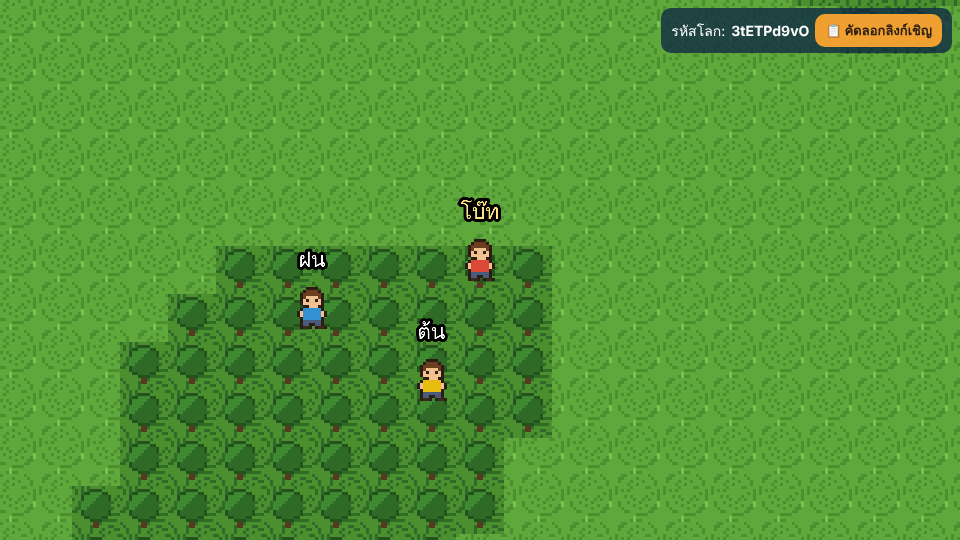
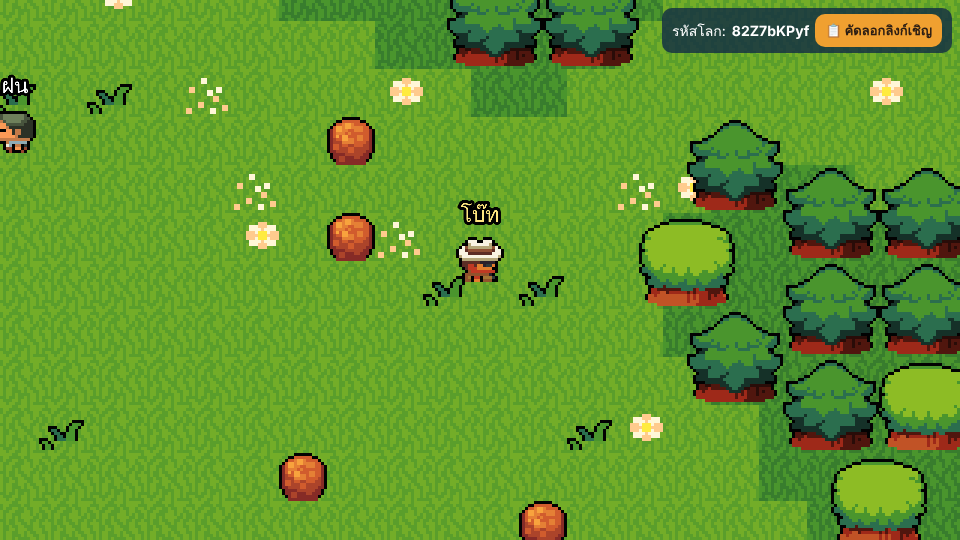
docs: art pass screenshots and summary
Claude-Session: https://claude.ai/code/session_017gvUHcw3fhMvS6ZkXhPqSn

diff --git a/docs/primal-isle.md b/docs/primal-isle.md
@@ -13,12 +13,13 @@
 - แผนที่ไม่ส่งทางเน็ต: ทั้งสองฝั่งสร้างจาก `seed` ด้วย `generateWorld` · ซิงก์เฉพาะสิ่งที่เปลี่ยน
 - Netcode: fixed timestep 20Hz + `defineInput` (server) · `Predict` reconciler + lerp (client) · `stepPlayer` ตัวเดียวใช้ทั้งสองฝั่ง
 - รหัสโลก = `roomId` ของ Colyseus · ลิงก์เชิญ `?w=<รหัส>`
-- ภาพตอนนี้ Claude วาดด้วยโค้ดทั้งหมด (`client/src/art/`)
+- ภาพ: asset CC0 ของ Pixel-boy (`client/public/assets/ninja-adventure/`, ที่มาใน `CREDITS.md`) · แผนที่ช่องภาพอยู่ที่ `client/src/art/ninjaAtlas.ts` · tileset ของเราเติมแถว 41 (ทรายเรียบ)
 - ค่าคงที่ทั้งหมดอยู่ที่ `shared/src/constants.ts`
 
 ## สถานะ
 - ✅ ขั้นที่ 1–2 เสร็จ: สร้างโลก/เข้าโลก, เดินด้วยกัน, joystick มือถือ, หน้าหมุนจอ
 - ✅ เน็ตสะดุด: เซิร์ฟเวอร์เก็บตัวละครไว้ 20 วิ, client ขึ้น "กำลังเชื่อมต่อใหม่…" ทันทีแล้วต่อกลับเอง
+- ✅ ภาพใหม่: ชายฝั่งเลือกภาพขอบตามทิศที่ติดบก (`client/src/art/groundFrames.ts`), ของตกแต่งจาก seed (`shared/src/world/decor.ts`), ตัวละคร 8 แบบเดินมีท่า 4 ทิศ · 60 FPS บนจอขนาดมือถือ
 - ✅ กันโกงความเร็ว: `server/src/rooms/stepBudget.ts` ใช้ input ได้ไม่เกินโควตาต่อ tick
 - เทสต์: shared 21 · server 16 (รวม e2e ด้วย SDK จริง) · client 31 · CI บน GitHub เขียว · ทดสอบใน headless Chrome แล้ว (2–3 ผู้เล่น, touch, เน็ตหลุด/ต่อกลับ, พิมพ์หลังกลับเมนู)
 - เล่นได้เฉพาะ Wi-Fi เดียวกัน (เซิร์ฟเวอร์รันบนคอมโบ๊ท)
@@ -33,6 +34,8 @@
 | `client/src/scenes/WorldScene.ts` | ต่อชิ้นส่วนในเกม |
 | `client/src/net/prediction.ts` | ระบบทำนายการเดิน |
 | `client/src/ui/menu.ts` | เมนูสร้าง/เข้าโลก |
+| `shared/src/world/decor.ts` | ตำแหน่งต้นไม้/ดอกไม้/หินจาก seed (ขั้นที่ 3 จะทำให้ตัด/เก็บได้) |
+| `client/src/art/ninjaAtlas.ts` | ช่องไหนใน tileset คืออะไร |
 
 ## บั๊ก/ข้อจำกัดที่ยังเปิดอยู่
 - ยังไม่มีระบบบันทึกโลก: ทุกคนออก = ห้องหายและเกาะหายไปด้วย (ทำในขั้นที่ 5)
@@ -41,11 +44,12 @@
 - (เล็ก) สีเสื้อ/จุดเกิดซ้ำกันได้ถ้าเคยมีคนเข้าครบ 8 แล้วมีคนออก-เข้าใหม่
 - (เล็ก) joystick อาจค้างถ้าเบราว์เซอร์พักแอปกลางการลากนิ้ว
 - (เล็ก) เมนูอาจค้างที่ "กำลังเชื่อมต่อ…" ถ้าห้องหลุดก่อนได้ state แรก (ยังไม่มี timeout)
+- รุ่นนี้เดินทะลุต้นไม้ได้ (ตั้งใจ — รอขั้นที่ 3) · รอยต่อหญ้ากับทรายยังเป็นขอบตรง
 - (เล็ก) ชื่อที่มีอักขระล่องหน/อีโมจิครอบครัวตัดไม่สวย; กด Enter ในเมนูยังไม่ทำงาน
 - `/monitor` และ playground เปิดอยู่ตอน dev — ตอนขึ้นเซิร์ฟเวอร์จริงต้องตั้ง `NODE_ENV=production`
 
 ## ขั้นต่อไป
-**ขั้นที่ 3 — เอาชีวิตรอด:** ทรัพยากรบนแผนที่ (ต้นไม้ หิน พุ่มไม้ แหล่งน้ำ) เก็บได้ · กระเป๋า · ค่าเลือด/หิว/น้ำ · กิน/ดื่ม
+**ขั้นที่ 3 — เอาชีวิตรอด:** ต่อยอด `generateDecor`: ต้นไม้/หินกลายเป็นทรัพยากรที่ชนได้และเก็บได้ (ต้องย้ายสถานะ "ถูกตัดแล้ว" ไปไว้ที่เซิร์ฟเวอร์) · กระเป๋า · ค่าเลือด/หิว/น้ำ · กิน/ดื่ม
 ต้องเขียนแผน `docs/superpowers/plans/` ใหม่ก่อนลงมือ
 
 ## เอกสารอื่น

diff --git a/README.md b/README.md
@@ -5,12 +5,15 @@
 
 > ชื่อเกมเป็นชื่อชั่วคราว
 
-![เพื่อน 3 คนเดินบนเกาะเดียวกัน](docs/images/screenshot.png)
+![เพื่อนเดินบนเกาะเดียวกัน](docs/images/screenshot.png)
+
+<img src="docs/images/island.png" width="256" alt="ภาพรวมเกาะที่สร้างจาก seed">
 
 ## สถานะตอนนี้ (ขั้นที่ 1–2)
 
 ✅ สร้างเกาะสุ่มจาก seed · ✅ ส่งลิงก์/รหัสให้เพื่อนเข้าโลกเดียวกัน (สูงสุด 8 คน)
 ✅ เดินพร้อมกันแบบลื่น (prediction) · ✅ คีย์บอร์ด WASD และ joystick บนมือถือ · ✅ แจ้งเตือนเมื่อเน็ตหลุด
+✅ ภาพ pixel art ของ Pixel-boy (CC0): ชายฝั่งโค้ง ต้นไม้ ดอกไม้ ตัวละครมีท่าเดิน 4 ทิศ
 
 ขั้นต่อไป: เก็บของ + ค่าเลือด/หิว/น้ำ — ดูแผนทั้งหมดใน [เอกสารออกแบบ](docs/superpowers/specs/2026-11-21-primal-isle-design.md)
 

diff --git a/docs/INDEX.md b/docs/INDEX.md
@@ -3,3 +3,4 @@
 - [primal-isle.md](primal-isle.md) — **สรุปสถานะโปรเจกต์ (อ่านอันนี้ก่อน)**
 - [เอกสารออกแบบ](superpowers/specs/2026-11-21-primal-isle-design.md) — เป้าหมาย ธีม สถาปัตยกรรม 7 ขั้น
 - [แผนขั้นที่ 1–2](superpowers/plans/2026-11-21-m1-m2-walk-together.md) — งานย่อยที่ทำไปแล้ว
+- [ออกแบบการเปลี่ยนภาพ](superpowers/specs/2026-11-21-art-pass-design.md) · [แผน](superpowers/plans/2026-11-21-art-pass.md)
